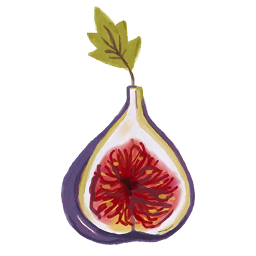
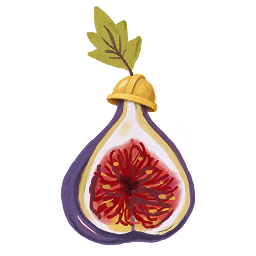
Correcció d'errors

diff --git a/app.js b/app.js
@@ -7,6 +7,7 @@ const { WORKER_URL } = await import(`./config.js?v=${Date.now()}`);
 const main = document.querySelector('#main');
 const navigation = document.querySelector('#navigation');
 const saveButton = document.querySelector('#save');
+const resetButton = document.querySelector('#reset');
 const status = document.querySelector('#save-state');
 const passwordDialog = document.querySelector('#password-dialog');
 const passwordForm = document.querySelector('#password-form');
@@ -32,7 +33,10 @@ function button(text, action, className = '') {
   control.addEventListener('click', action); return control;
 }
 function setStatus(message) { status.textContent = message; }
-function updateSave() { saveButton.disabled = !content || !dirty || busy || conflicted || !WORKER_URL; }
+function updateSave() {
+  saveButton.disabled = !content || !dirty || busy || conflicted || !WORKER_URL;
+  resetButton.disabled = !content || busy;
+}
 
 function persistDraft() {
   try {
@@ -140,7 +144,7 @@ function renderNavigation() {
     navigation.append(control);
   }
 }
-function moveControls(list, index, removeLabel) {
+function moveControls(list, index, removeLabel, compact = false) {
   const tools = el('div', 'card-tools');
   const move = delta => {
     [list[index], list[index + delta]] = [list[index + delta], list[index]];
@@ -148,20 +152,25 @@ function moveControls(list, index, removeLabel) {
   };
   const up = button('↑', () => move(-1)); up.disabled = index === 0; up.setAttribute('aria-label', 'Pujar');
   const down = button('↓', () => move(1)); down.disabled = index === list.length - 1; down.setAttribute('aria-label', 'Baixar');
-  const remove = button('Eliminar', () => {
+  const remove = button(compact ? '×' : 'Eliminar', () => {
     if (!window.confirm(removeLabel)) return;
     list.splice(index, 1); changed(); render();
   }, 'delete');
+  remove.setAttribute('aria-label', 'Eliminar'); remove.title = 'Eliminar';
+  up.title = 'Pujar'; down.title = 'Baixar';
   tools.append(up, down, remove); return tools;
 }
 function card(title, list, index, kind, path) {
+  const row = el('div', 'card-row');
   const node = el('details', `card ${kind}-card`); node.dataset.cardPath = path;
   node.contentEntry = list[index]; node.open = expandedCards.has(node.contentEntry);
   const summary = el('summary', '', title || 'Sense títol');
   const body = el('div', 'card-body');
-  body.append(moveControls(list, index, kind === 'table' ? 'Vols eliminar esta taula i tots els seus ítems?' : 'Vols eliminar este element?'));
+  const controls = moveControls(list, index, kind === 'table' ? 'Vols eliminar esta taula i tots els seus ítems?' : 'Vols eliminar este element?', true);
+  controls.dataset.controlsFor = path;
   node.append(summary, body);
-  return { node, body, summary };
+  row.append(node, controls);
+  return { node, body, summary, row };
 }
 const emptyPrice = () => ({ kind: 'amount', amount: 0, description: [], star: false, bold: true, italic: false });
 const emptyItem = () => ({ name: '', color: 'mustard', description: [], alert: [], prices: [emptyPrice()] });
@@ -174,23 +183,36 @@ function renderPrices(item, path) {
   item.prices.forEach((price, index) => {
     const pp = `${path}.${index}`, block = el('div', 'price'); block.dataset.pricePath = pp;
     const heading = el('h3', '', `Preu ${index + 1}`); block.append(heading, moveControls(item.prices, index, 'Vols eliminar este preu?'));
-    const grid = el('div', 'price-grid');
-    const select = el('select');
-    for (const [value, label] of [['amount', 'Import'], ['text', 'Text']]) { const option = el('option', '', label); option.value = value; select.append(option); }
-    select.value = price.kind;
-    select.addEventListener('change', () => {
-      price.kind = select.value;
-      if (price.kind === 'amount') { price.amount = 0; delete price.text; }
-      else { price.text = ''; delete price.amount; }
-      changed(); render();
-    });
-    grid.append(field('Tipus', `${pp}.kind`, select));
+    const toggle = el('div', 'price-type-toggle');
+    toggle.setAttribute('role', 'group'); toggle.setAttribute('aria-label', 'Tipus de preu');
+    for (const [kind, label] of [['amount', 'Import (€)'], ['text', 'Text curt']]) {
+      const option = button(label, () => {
+        if (price.kind === kind) return;
+        price.kind = kind;
+        if (kind === 'amount') { price.amount = 0; delete price.text; }
+        else { price.text = ''; delete price.amount; }
+        changed(); render();
+      });
+      option.setAttribute('aria-pressed', String(price.kind === kind)); toggle.append(option);
+    }
+    let valueField;
     if (price.kind === 'amount') {
       const display = typeof price.amount === 'number' ? String(price.amount / 100).replace('.', ',') : price.amount;
-      const amount = textField('Import (€)', display ?? '', `${pp}.amount`, value => { price.amount = parseAmount(value) ?? value; }, 10);
-      amount.querySelector('input').inputMode = 'decimal'; grid.append(amount);
-    } else grid.append(textField('Text curt', price.text, `${pp}.text`, value => { price.text = value; }, 80));
-    block.append(grid);
+      const input = el('input'); input.type = 'text'; input.inputMode = 'decimal'; input.maxLength = 10;
+      input.value = display ?? '0';
+      const validInput = value => /^\d{0,7}(?:[.,]\d{0,2})?$/.test(value);
+      input.addEventListener('input', () => {
+        if (!validInput(input.value)) input.value = '0';
+        let number = input.value.replace(/[.,]$/, '');
+        if (/^[.,]/.test(number)) number = `0${number}`;
+        price.amount = parseAmount(number) ?? 0;
+        changed();
+      });
+      input.addEventListener('blur', () => { input.value = String(price.amount / 100).replace('.', ','); });
+      valueField = field('Import (€)', `${pp}.amount`, input);
+    } else valueField = textField('Text curt', price.text, `${pp}.text`, value => { price.text = value; }, 80);
+    valueField.querySelector('label').classList.add('visually-hidden');
+    valueField.classList.add('price-value-field'); valueField.prepend(toggle); block.append(valueField);
     const controls = el('div', 'price-controls');
     controls.append(checkbox('Asterisc', price.star, value => { price.star = value; refreshFootnoteHint(); }), checkbox('Negreta', price.bold, value => { price.bold = value; }), checkbox('Cursiva', price.italic, value => { price.italic = value; }));
     block.append(controls, richField('Descripció del preu (opcional)', price.description, `${pp}.description`, value => { price.description = value; }));
@@ -211,7 +233,7 @@ function renderTables(category, ci) {
   const container = el('div', 'collection');
   category.tables.forEach((table, ti) => {
     const tp = `categories.${ci}.tables.${ti}`;
-    const { node, body, summary } = card(table.title, category.tables, ti, 'table', tp);
+    const { row, body, summary } = card(table.title, category.tables, ti, 'table', tp);
     body.append(textField('Títol de la taula', table.title, `${tp}.title`, value => { table.title = value; summary.lastChild.textContent = value || 'Sense títol'; }));
     const items = el('div', 'collection');
     table.items.forEach((item, ii) => {
@@ -229,13 +251,13 @@ function renderTables(category, ci) {
       colorField.append(colors);
       entry.body.append(colorField, richField('Descripció (opcional)', item.description, `${ip}.description`, value => { item.description = value; }), richField('Alerta (opcional)', item.alert, `${ip}.alert`, value => { item.alert = value; }), renderPrices(item, `${ip}.prices`));
       const pending = pendingControl(item); if (pending) entry.body.prepend(pending);
-      items.append(entry.node);
+      items.append(entry.row);
     });
     body.append(items, button('+ Afegir ítem', () => { table.items.push(emptyItem()); changed(); render(); }, 'add'));
     const footnote = richField('Nota dels asteriscos', table.footnote, `${tp}.footnote`, value => { table.footnote = value; });
     footnote.classList.add('section-divider');
     const hint = el('p', 'footnote-hint'); hint.dataset.footnoteHint = `${ci}:${ti}`;
-    body.append(footnote, hint); container.append(node);
+    body.append(footnote, hint); container.append(row);
   });
   container.append(button('+ Afegir taula', () => { category.tables.push({ title: '', footnote: [], items: [emptyItem()] }); changed(); render(); }, 'add'));
   return container;
@@ -244,10 +266,10 @@ function renderQuestions(category, ci) {
   const container = el('div', 'collection');
   category.questions.forEach((question, qi) => {
     const qp = `categories.${ci}.questions.${qi}`;
-    const { node, body, summary } = card(textOf(question.question), category.questions, qi, 'question', qp);
+    const { row, body, summary } = card(textOf(question.question), category.questions, qi, 'question', qp);
     body.append(richField('Pregunta', question.question, `${qp}.question`, value => { question.question = value; summary.lastChild.textContent = textOf(value) || 'Sense títol'; }), richField('Resposta', question.answer, `${qp}.answer`, value => { question.answer = value; }));
     const pending = pendingControl(question); if (pending) body.prepend(pending);
-    container.append(node);
+    container.append(row);
   });
   container.append(button('+ Afegir pregunta', () => { category.questions.push({ question: [], answer: [] }); changed(); render(); }, 'add'));
   return container;
@@ -259,13 +281,17 @@ function downloadDraft() {
   setTimeout(() => URL.revokeObjectURL(url), 1000);
 }
 async function reloadCurrent() {
-  if (dirty && !confirm('Vols descartar els canvis locals i carregar la versió actual? Pots descarregar abans l’esborrany.')) return;
+  if (busy) return;
+  if (dirty && !confirm('Vols esborrar l’esborrany i carregar el contingut actual? Els canvis sense guardar es perdran.')) return;
+  busy = true; updateSave(); document.querySelector('.layout').inert = true; setStatus('Carregant la versió actual…');
   try {
     const result = await requestContent();
     latest = result; content = clone(result.document); base = clone(result.document); sha = result.sha;
     conflicted = false; dirty = false; persistDraft(); render(); setStatus('Versió actual carregada');
   } catch (error) { setStatus(error.message); }
+  finally { busy = false; document.querySelector('.layout').inert = false; updateSave(); }
 }
+resetButton.addEventListener('click', reloadCurrent);
 function notices() {
   if (!WORKER_URL) { const notice = el('div', 'notice'); notice.append(el('p', '', 'El guardat encara no està disponible. Pots provar l’edició.')); main.append(notice); }
   if (localWarning) main.append(el('p', 'notice', localWarning));

diff --git a/styles.css b/styles.css
@@ -3,5 +3,15 @@
 @font-face{font-family:'Futura Text';src:url('./assets/futura-nd-demibold.woff2') format('woff2');font-weight:600;font-display:swap}
 :root{--paper:#e4e6fb;--ink:#57575a;--muted:#696672;--line:#b5b7d4;--purple:#cca8c5;--green:#a8ccc3;--mustard:#ddc17c;--white:#f9f9f3;--error:#8b254c}
 *{box-sizing:border-box}body{margin:0;background:var(--paper);color:var(--ink);font:16px/1.6 'Futura Text',Arial,sans-serif;-webkit-font-smoothing:antialiased}strong,b{font-weight:600}em,i{font-style:italic}a{color:inherit;text-underline-offset:3px}button,input,select{font:inherit;color:inherit}button{cursor:pointer;background:transparent;border:1px solid var(--line);border-radius:5px;padding:8px 16px;line-height:1.5}button:hover{background:#ffffff55}button:disabled{opacity:.4;cursor:default}button:focus-visible,a:focus-visible,input:focus-visible,select:focus-visible,summary:focus-visible,[contenteditable]:focus-visible{outline:2px solid #82034e;outline-offset:3px}.primary{background:var(--purple);border-color:var(--purple);font-weight:600;padding:10px 24px}.primary:hover{background:#d6b8d1}.header{position:sticky;top:0;z-index:10;background:var(--paper);min-height:100px;display:flex;align-items:center;justify-content:space-between;gap:24px;padding:20px 5vw;border-bottom:1px solid var(--line)}.brand{display:flex;align-items:center;gap:16px;text-decoration:none}.brand img{object-fit:contain}.brand>span{font:500 30px/1 'EB Garamond',Georgia,serif;color:#82034e}.brand small{display:block;font:600 10px/1.5 'Futura Text',sans-serif;letter-spacing:5px;color:var(--ink);margin-top:6px}.save-area{display:flex;align-items:center;gap:20px}#save-state{max-width:330px;font-size:13px;line-height:1.4}.layout{max-width:1320px;margin:auto;display:grid;grid-template-columns:210px minmax(0,1fr);gap:56px;padding:40px 5vw 80px}nav{position:sticky;top:140px;align-self:start;display:grid;gap:8px}nav button{text-align:left;border-color:transparent;position:relative;padding:9px 12px}nav button[aria-current=page]{background:var(--purple);border-radius:28% 8% 22% 12%;font-weight:600}main{min-width:0;max-width:850px}h1,h2,h3,p{margin:0}h1{font:500 clamp(38px,5vw,58px)/1.15 'EB Garamond',Georgia,serif;letter-spacing:-1px;margin-bottom:32px}h2{font-size:22px;font-weight:600;margin:35px 0 18px}h3{font-size:17px;font-weight:600}label,.field-label{display:block;font-size:14px;font-weight:600;margin-bottom:7px}.field{margin:0 0 25px;min-width:0}input:not([type=checkbox]):not([type=radio]),select{width:100%;background:var(--white);border:1px solid var(--line);border-radius:5px;padding:11px 13px;min-height:47px}input[type=checkbox]{accent-color:#82034e;width:17px;height:17px;margin:0}.check-label{display:flex;align-items:center;gap:8px;margin:0;font-weight:400}.editor-wrap{background:var(--white);border:1px solid var(--line);border-radius:5px;overflow:hidden}.toolbar{display:flex;align-items:center;gap:3px;padding:5px 7px;border-bottom:1px solid var(--line)}.toolbar button{border:0;padding:3px 9px;min-width:32px;font-size:14px}.rich-editor{padding:12px 14px;min-height:105px;overflow-wrap:anywhere;white-space:pre-wrap}.rich-editor:empty:before{content:attr(data-placeholder);color:var(--muted);pointer-events:none}.rich-editor a{text-decoration:underline}.rich-editor em{font-style:italic}.field-error{font-size:13px;color:var(--error);margin-top:5px;line-height:1.5}.has-error input,.has-error .editor-wrap,.has-error select{border-color:var(--error)}.collection{display:grid;gap:15px;margin-bottom:18px}.card{border:1px solid var(--line);border-radius:6px;background:#ffffff22;min-width:0}.card>summary{cursor:pointer;display:flex;align-items:center;gap:12px;list-style:none;padding:16px 18px;font-weight:600;overflow-wrap:anywhere}.card>summary::-webkit-details-marker{display:none}.card>summary:before{content:'+';font-weight:400;font-size:24px;line-height:1;flex-shrink:0}.card[open]>summary:before{content:'−'}.card-body{border-top:1px solid var(--line);padding:22px 20px 20px}.item-card{background:var(--white)}.card-tools{display:flex;gap:6px;align-items:center;justify-content:flex-end;margin-bottom:20px}.card-tools button{font-size:13px;padding:4px 10px}.card-tools .delete{margin-left:6px;color:var(--error)}.swatch{width:17px;height:10px;border-radius:30% 10%;flex-shrink:0}.colors{display:flex;gap:14px;flex-wrap:wrap}.color-option{display:flex;align-items:center;gap:7px;margin:0;font-weight:400;font-size:14px}.color-option span{display:inline-block;border-radius:20% 10%;padding:2px 8px}.price{border-top:1px solid var(--line);padding-top:20px;margin-top:18px}.price-grid{display:grid;grid-template-columns:130px minmax(0,1fr);gap:15px}.price-grid .field{margin-bottom:16px}.price-controls{display:flex;gap:22px;flex-wrap:wrap;margin-bottom:20px}.price .rich-editor{min-height:60px}.contact-group{padding-bottom:8px}.actions{display:flex;justify-content:flex-end;gap:10px;margin-top:24px}.error{color:var(--error);font-size:14px;white-space:pre-wrap}.notice{border:1px solid var(--line);border-radius:5px;padding:16px 18px;margin-bottom:24px;font-size:14px}.notice p+p{margin-top:8px}.notice .actions{justify-content:flex-start;flex-wrap:wrap;margin-top:12px}.loading{color:var(--muted)}.pending{font-size:12px;background:#e5cee4;padding:3px 8px;display:inline-block;border-radius:3px;margin-bottom:15px}dialog{border:1px solid var(--line);border-radius:8px;background:var(--paper);color:var(--ink);padding:28px;width:min(440px,calc(100% - 32px))}dialog::backdrop{background:#37304466}dialog h2{margin:0 0 24px}dialog .error{margin-top:12px}dialog button:disabled{opacity:.5}.visually-hidden{position:absolute;width:1px;height:1px;overflow:hidden;clip:rect(0,0,0,0)}.add{font-size:14px}.section-divider{margin-top:38px}.footnote-hint{font-size:13px;color:var(--muted);margin-top:-15px;margin-bottom:20px}
-@media(max-width:850px){.layout{grid-template-columns:170px minmax(0,1fr);gap:28px;padding-inline:4vw}.header{padding-inline:4vw}.card-body{padding:18px 14px}.colors{gap:8px}}
+.card-row{display:grid;grid-template-columns:minmax(0,1fr) auto;align-items:start;gap:10px;min-width:0}
+.card-row>.card-tools{margin:0;padding-top:12px;gap:4px}
+.card-row>.card-tools button{width:30px;min-height:32px;padding:3px;font-size:17px;line-height:1}
+.card-row>.card-tools .delete{margin-left:2px;font-size:23px}
+.price-type-toggle{display:inline-flex;flex-wrap:wrap;gap:3px;padding:3px;border:1px solid var(--line);border-radius:6px;margin-bottom:9px;max-width:100%}
+.price-type-toggle button{border:0;padding:5px 10px;font-size:13px;color:var(--muted);white-space:nowrap}
+.price-type-toggle button[aria-pressed=true]{background:var(--purple);color:var(--ink);font-weight:600}
+.price-value-field{margin-bottom:18px}
+.save-area{gap:12px;flex-wrap:wrap;justify-content:flex-end}
+@media(max-width:850px){.layout{grid-template-columns:170px minmax(0,1fr);gap:28px;padding-inline:4vw}.header{padding-inline:4vw}.card-body{padding:18px 14px}.colors{gap:8px}.card-row>.card-tools{flex-direction:column}.card-row{gap:8px}}
 @media(max-width:620px){.header{padding:14px 20px;min-height:83px;gap:12px}.brand{gap:9px}.brand img{width:35px;height:35px}.brand>span{font-size:25px}.brand small{font-size:8px;letter-spacing:4px}.save-area{gap:8px;flex-wrap:wrap;justify-content:flex-end}#save-state{font-size:11px;max-width:160px}.primary{padding:9px 16px}.layout{display:block;padding:18px 20px 60px}nav{position:static;display:flex;gap:6px;overflow-x:auto;margin:0 -4px 28px;padding:4px 4px 10px}nav button{white-space:nowrap;font-size:13px;padding:8px 10px;flex-shrink:0}h1{margin-bottom:25px}.price-grid{grid-template-columns:110px minmax(0,1fr)}.card>summary{padding:14px}.card-tools{gap:4px}.card-tools button{font-size:12px;padding:5px 8px}.color-option span{padding-inline:5px}}
+@media(max-width:620px){.header{padding-inline:16px;gap:8px;flex-wrap:wrap}.brand{flex-shrink:0}.brand small{letter-spacing:2.8px}.save-area{gap:6px;max-width:175px;margin-left:auto}.save-area>button{font-size:13px;padding:8px 10px}#save-state{order:3;flex-basis:100%;text-align:right;max-width:175px}.card-body{padding-inline:12px}.card-row>.card-tools .delete{margin-left:0}.price-type-toggle button{padding-inline:7px}.price-controls{gap:12px}.toolbar{flex-wrap:wrap}}

diff --git a/index.html b/index.html
@@ -7,16 +7,16 @@
     <meta name="robots" content="noindex, nofollow">
     <title>La figuera · Editar contingut</title>
     <link rel="icon" href="./assets/favicon.png">
-    <link rel="stylesheet" href="./styles.css">
-    <script type="module" src="./app.js?v=20261106-2"></script>
+    <link rel="stylesheet" href="./styles.css?v=20261106-3">
+    <script type="module" src="./app.js?v=20261106-3"></script>
   </head>
   <body>
     <header class="header">
       <a class="brand" href="./" aria-label="La figuera · Editor">
         <img src="./assets/figa-256.png" width="48" height="48" alt="">
-        <span>La figuera<small>EVENTS</small></span>
+        <span>La figuera<small>EVENTS CMS</small></span>
       </a>
-      <div class="save-area"><span id="save-state" role="status" aria-live="polite"></span><button id="save" class="primary" disabled>Guardar</button></div>
+      <div class="save-area"><span id="save-state" role="status" aria-live="polite"></span><button id="reset" type="button" title="Esborrar l’esborrany i carregar el contingut actual" disabled>Restablir</button><button id="save" class="primary" disabled>Guardar</button></div>
     </header>
     <div class="layout">
       <nav id="navigation" aria-label="Contingut"></nav>

diff --git a/README.md b/README.md
@@ -118,11 +118,12 @@ Guarda el fitxer. En GitHub Desktop, fes commit i push dels canvis del CMS. Espe
 ## Ús quotidià
 
 - Selecciona una secció i edita els camps. Els grups de taules, ítems i preguntes es poden desplegar.
-- Els botons **↑ / ↓** canvien l’ordre dins del grup. **Eliminar** demana confirmació.
+- Els botons **↑ / ↓** canvien l’ordre dins del grup. En taules, ítems i preguntes estan a la dreta, fora del desplegable. **×** elimina l’element després de demanar confirmació.
 - En un text, selecciona les paraules i polsa **B**, **I** o **Enllaç**. Per separar línies, polsa Intro. El text apegat entra sense format extern.
-- Cada preu pot ser un **Import**, que rep el símbol € automàticament, o un **Text** curt. Cada preu té la seua descripció i el seu asterisc.
+- El commutador de cada preu permet triar **Import (€)** o **Text curt**. Els imports només accepten dígits i un separador decimal, coma o punt; una entrada no vàlida queda a zero. El símbol € s’afegix automàticament. En **Text curt** pots escriure lliurement. Cada preu té la seua descripció i el seu asterisc.
 - Si hi ha un asterisc, ompli la nota de la taula. Sense asteriscs, la nota no es mostra.
 - Les modificacions es conserven localment en eixe navegador fins a guardar. La contrasenya només s’utilitza per a l’enviament i es buida després.
+- **Restablir** descarta l’esborrany local després de confirmar i torna a carregar el contingut actual de GitHub. Si falla la connexió, conserva l’esborrany perquè no perdes el treball. No modifica la web ni demana contrasenya.
 - Si una altra persona ha guardat abans, el CMS bloqueja el guardat. Descarrega l’esborrany, carrega la versió actual i torna a aplicar els canvis necessaris. La descàrrega és una còpia de consulta, no una importació automàtica.
 
 ## Manteniment
